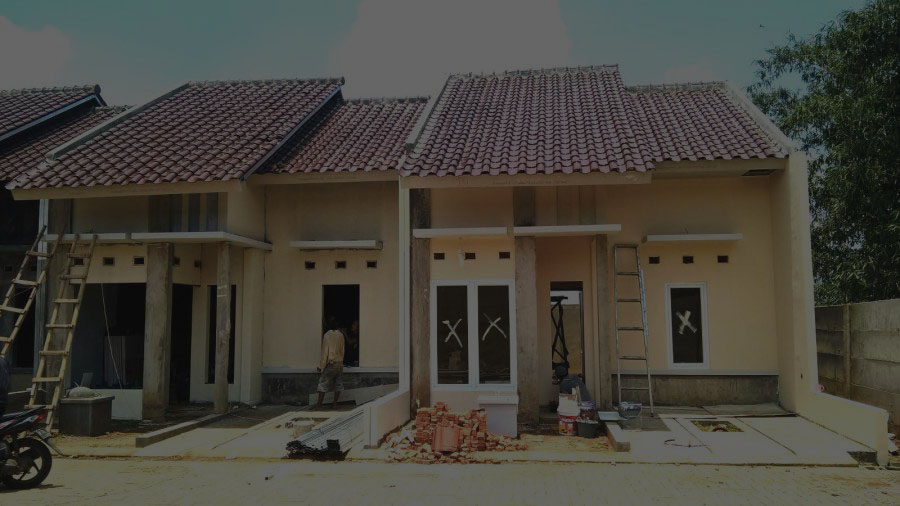
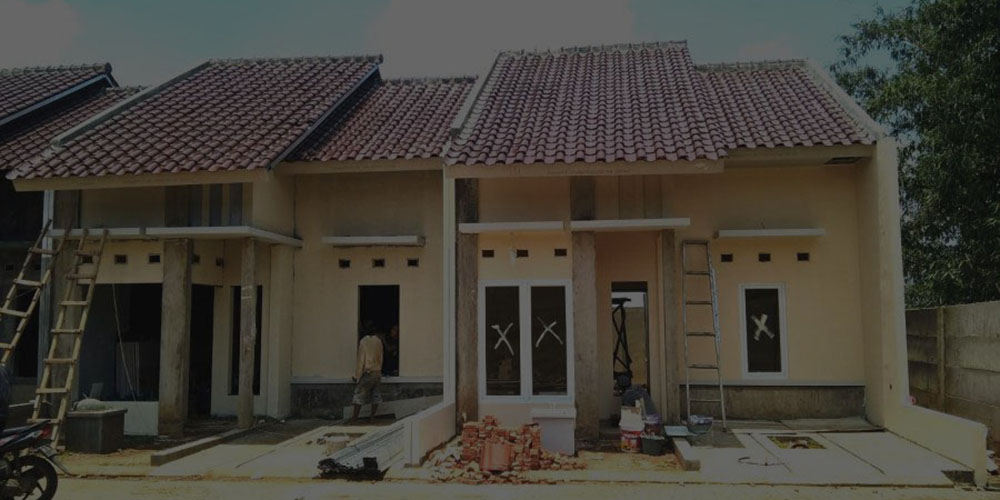
merubah ukuran gambar

diff --git a/index.html b/index.html
@@ -60,7 +60,7 @@
           </div>
         </div>
         <div class="carousel-item">
-          <img src="img/Heksa2.jpg" class="d-block w-100" alt="...">
+          <img src="img/Heksa2.jpeg" class="d-block w-100" alt="...">
           <div class="carousel-caption">
             <div class="fontcarousel">Second slide label</div>
             <p>Nulla vitae elit libero, a pharetra augue mollis interdum.</p>

diff --git a/style.css b/style.css
@@ -36,7 +36,7 @@ body {
 /*Image*/
 
 	.carousel-item {
-		margin-top: -160px;
+		margin-top: -85px;
 
 	}
 
